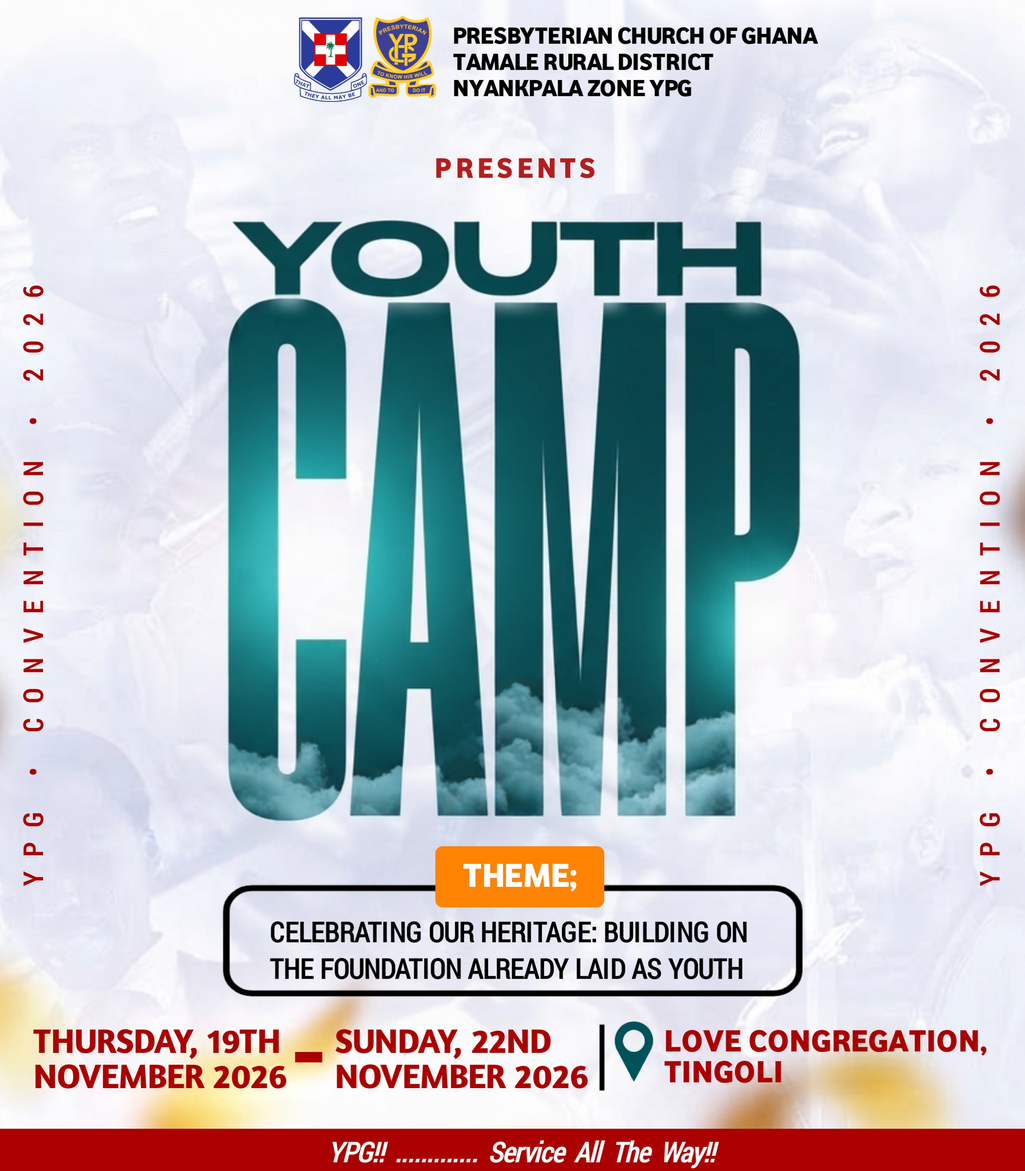
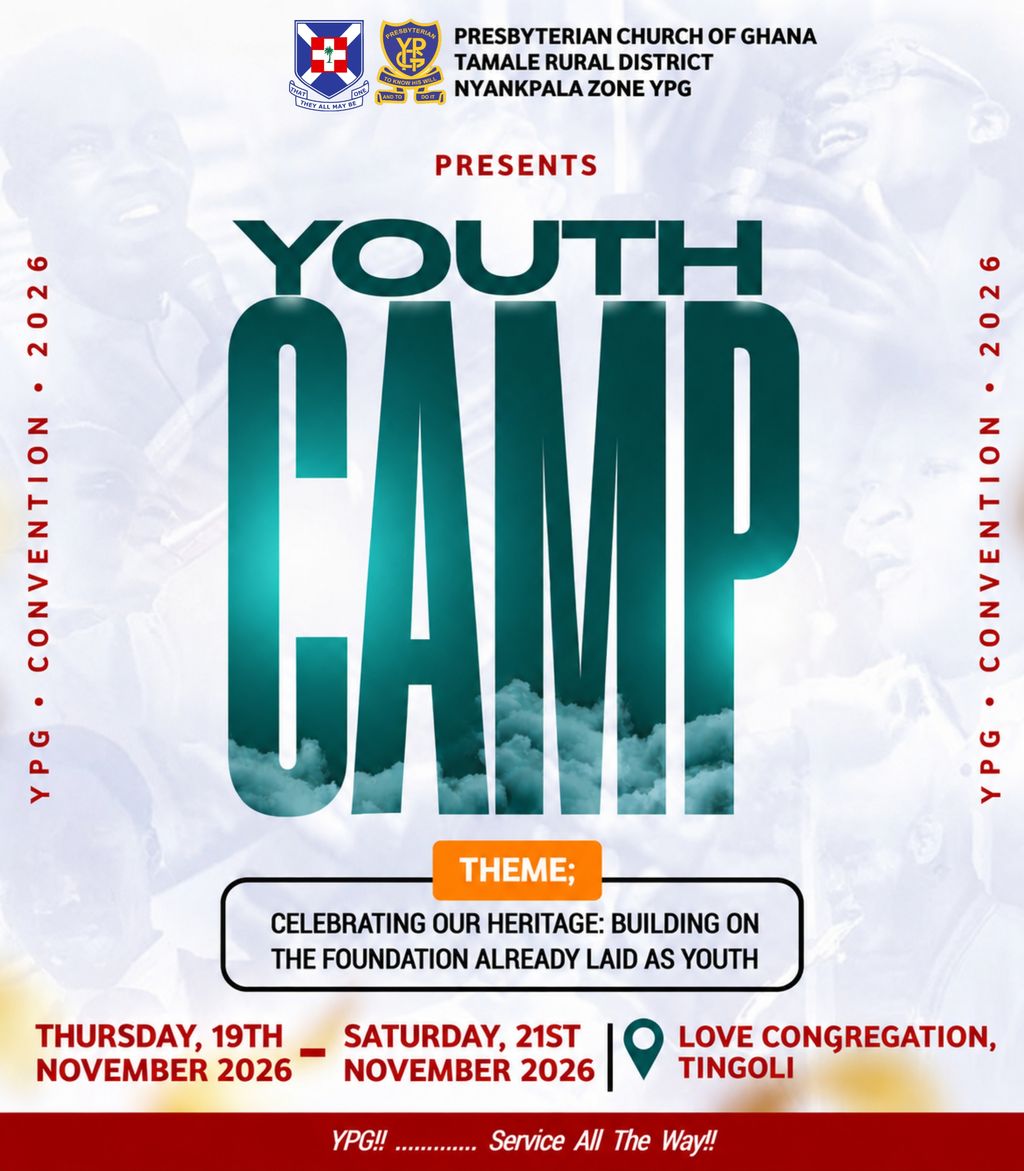
changes

diff --git a/past_events.html b/past_events.html
@@ -83,11 +83,11 @@
                             A Youth Convention is planned for November 2026, with a uniform T-shirt for all Guilders. Tingoli will host it.
                         </li>
                         <li>
-                            Representtives were appointed from each congregation and preaching point to improve communication among members.
+                            Representatives were appointed from each congregation and preaching point to improve communication among members.
                         </li>
                     </ol>
                     Members are encourage to remain united, loving, and respectful as we work togerther for the growth 
-                    of Nyankpala Zone, to the glory if our Lord Jesus Christ.<br>
+                    of Nyankpala Zone YPG, to the glory if our Lord Jesus Christ.<br>
                     <b><i>YPG! Service All The Way!🙏❤</i></b>
                 </p>
             </div>

diff --git a/index.html b/index.html
@@ -127,9 +127,9 @@
         </div>
 
         <div class="event-details">
-            <h3>19th - 22nd November, 2026<br> Youth Convention</h3>
+            <h3>19th - 21st November, 2026<br> Youth Convention</h3>
             <p>🕗 Reporting Time: 3:00pm</p>
-            <P>📍 Freedom Congregation, Kpana</P>
+            <P>📍 Love Congregation, Tingoli</P>
             <p>
                 Join us as we gather in fellowship, renew our faith, and grow together in Christ as one guild.
             </p>
@@ -137,9 +137,9 @@
         <a href="events.html" class="btn">View All Events</a>
     </section>
 
-    <!--VERSE OF THE DAY-->
+    <!--VERSE OF THE WEEK-->
     <div id="verse">
-        <h1>Verse of the day</h1>
+        <h1>Verse of the week</h1>
         <p>
             Tremble with fear and do not sin. Meditate as you lie in bed, 
             and repent of your sins. (Selah)<br>

diff --git a/events.html b/events.html
@@ -94,7 +94,7 @@
                 <img src="EVENTS/convention.jpg" alt="Youth Convention Flyer">
             </div>
             <div class="event-content">
-                <p>19th - 22nd November, 2026</p>
+                <p>19th - 21st November, 2026</p>
                 <h3>YOUTH CONVENTION</h3>
             </div>
         </section>

diff --git a/about.html b/about.html
@@ -249,7 +249,7 @@
                 </div>
 
                 <div class="leaders-grid">
-                    <img src="leaders pics/Fibky.jpg" alt="Bro Simon">
+                    <img src="" alt="Bro Simon">
                     
                     <div class="leader-info">
                         <h2>Alhassan Simon Azindow</h2>
